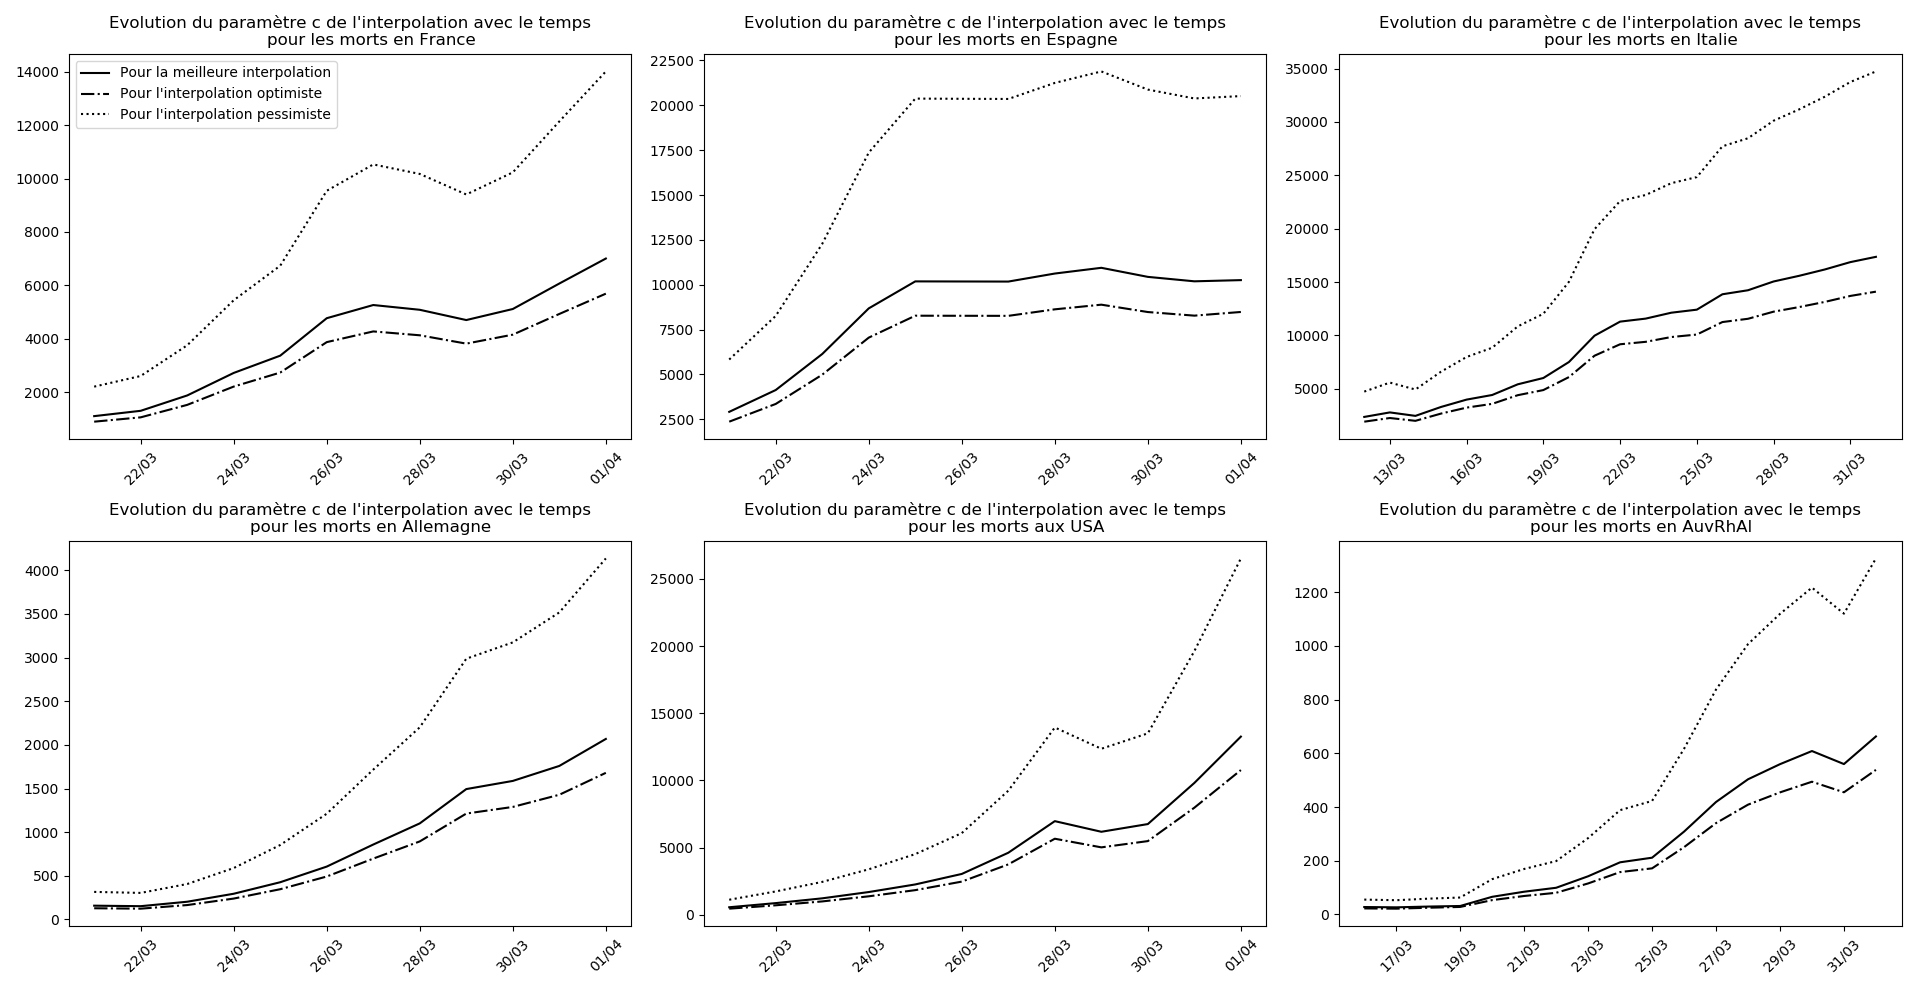
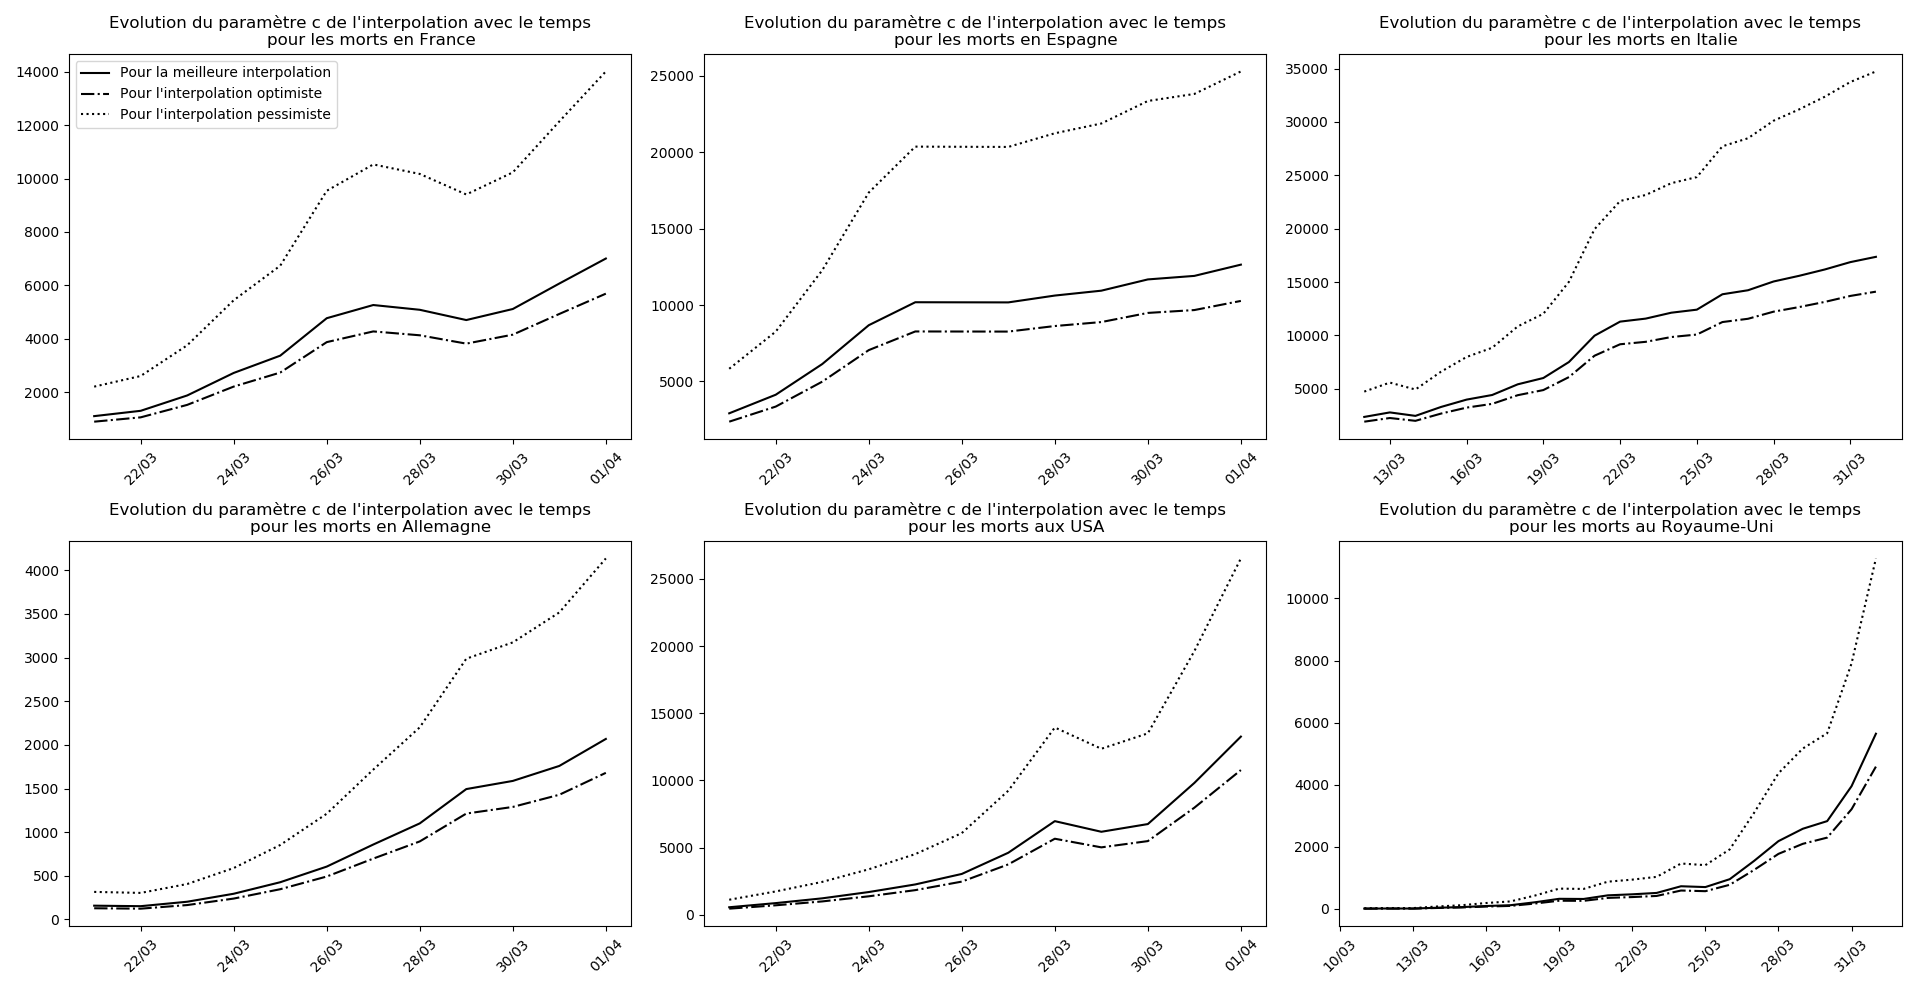
CoViD-19

diff --git a/_posts/2020-03-28-covid19.md b/_posts/2020-03-28-covid19.md
@@ -527,87 +527,11 @@ Le pic pourrait arriver aux environs du 31 mars pour l'Italie et du 5 avril pour
 
 ![CoViD-19 sigmoïdale, évolution du nombre de cas](/img/COVIDEspIta29032020pic.png)
 
-# Situation au 29 mars
-
-Curieusement, ça semble s'améliorer partout aujourd'hui ! Pour l'Espagne et l'Italie, c'est une confirmation, un phénomène qui semble durable. Cela se voit particulièrement bien sur le paramètre $c$ de la simulation, qui dans les premiers temps de l'épidémie est mal mesuré par l'algorithme. Tant que l'inflexion n'est pas passée, il augmente. À partir du moment où l'inflexion est passée, il converge vers sa valeur définitive.
-
-Du coup cela permet d'anticiper le pic épidémique. Pour l'Italie, ça se confirme au 31 mars. Pour l'Espagne, au 3 avril. Et pour la France, ce serait aux alentours du 5 avril.
-
-Tout cela est à prendre avec prudence...
-
-Enfin, nouveauté du jour, en bas à droite des deux graphiques de comparaison : Auvergne-Rhône-Alpes. En pleine phase ascendante. Comme quoi, le mieux d'aujourd'hui pour la France pourrait ne pas être durable...
-
-Source des données : 
-- pour le monde : [https://www.worldometers.info/coronavirus/](https://www.worldometers.info/coronavirus/)
-- pour Auvergne-Rhône-Alpes : [https://www.auvergne-rhone-alpes.ars.sante.fr/liste-communiques-presse](https://www.auvergne-rhone-alpes.ars.sante.fr/liste-communiques-presse)
-
-![CoViD-19 sigmoïdale, évolution du nombre de cas](/img/LimiteMorts30032020.png)
-
-![CoViD-19 sigmoïdale, évolution du nombre de cas](/img/LimiteCoViD30032020.png)
-
-![CoViD-19 sigmoïdale, évolution du nombre de cas](/img/COVIDEspIta30032020pic.png)
-
-# Situation au 30 mars
-
-Les données de l'Allemagne étaient parcellaires et la situation outre-Rhin ne s'améliore pas tant que ça.
-
-L'Espagne au contraire voit sa situation s'améliorer de façon pérenne et peut espérer passer le pic d'épidémie aux alentours du 3 avril.
-
-Pour l'Italie, le plus dur pourrait être derrière : le pic pour demain ? Autant dire qu'on est au pic, la précision de l'algorithme étant très faible en l'occurrence.
-
-Aux USA, un petit mieux peut-être ?
-
-Enfin, pour la France, l'algorithme donne un nombre de morts en fin d'épidémie stable aux alentours de 5000 depuis 5 jours. C'est plus que bon signe ! On reste chez soi, et on se prépare à l'arrivée du pic vers le 5 avril. Même si... la situation en Auvergne-Rhône-Alpes continue à s'emballer et invite à être prudent sur l'évolution de la maladie en France.
-
-Source des données : 
-- pour le monde : [https://www.worldometers.info/coronavirus/](https://www.worldometers.info/coronavirus/)
-- pour Auvergne-Rhône-Alpes : [https://www.auvergne-rhone-alpes.ars.sante.fr/liste-communiques-presse](https://www.auvergne-rhone-alpes.ars.sante.fr/liste-communiques-presse)
-
-![CoViD-19 sigmoïdale, évolution du nombre de cas](/img/CasVsSimulMorts31032020.png)
-
-![CoViD-19 sigmoïdale, évolution du nombre de cas](/img/CasVsSimulCOVID31032020.png)
-
-![CoViD-19 sigmoïdale, évolution du nombre de cas](/img/LimiteMorts31032020.png)
-
-![CoViD-19 sigmoïdale, évolution du nombre de cas](/img/LimiteCoViD31032020.png)
-
-![CoViD-19 sigmoïdale, évolution du nombre de cas](/img/EvolMorts31032020.png)
-
-![CoViD-19 sigmoïdale, évolution du nombre de cas](/img/EvolCOVID31032020.png)
-
-![CoViD-19 sigmoïdale, évolution du nombre de cas](/img/COVIDEspItaFra31032020pic.png)
-
-# Situation au 31 mars
-
-Véritable espoir pour l'Espagne et l'Italie : l'Italie semble passer le pic épidémique et l'Espagne n'est vraiment plus loin, tous les paramètres se stabilisent.
-
-Pour la France, le ciel s'assombrit...
-
-Source des données : 
-- pour le monde : [https://www.worldometers.info/coronavirus/](https://www.worldometers.info/coronavirus/)
-- pour Auvergne-Rhône-Alpes : [https://www.auvergne-rhone-alpes.ars.sante.fr/liste-communiques-presse](https://www.auvergne-rhone-alpes.ars.sante.fr/liste-communiques-presse)
-
-![CoViD-19 sigmoïdale, évolution du nombre de cas](/img/CasVsSimulMorts01042020.png)
-
-![CoViD-19 sigmoïdale, évolution du nombre de cas](/img/CasVsSimulCOVID01042020.png)
-
-![CoViD-19 sigmoïdale, évolution du nombre de cas](/img/LimiteMorts01042020.png)
-
-![CoViD-19 sigmoïdale, évolution du nombre de cas](/img/LimiteCoViD01042020.png)
-
-![CoViD-19 sigmoïdale, évolution du nombre de cas](/img/EvolMorts01042020.png)
-
-![CoViD-19 sigmoïdale, évolution du nombre de cas](/img/EvolCOVID01042020.png)
-
-![CoViD-19 sigmoïdale, évolution du nombre de cas](/img/COVIDEspItaFra01042020pic.png)
-
 # Situation au 1er avril
 
-L'embellie se confirme pour l'Espagne et l'Italie : l'espoir est là.
+Je m'étais déjà aperçu que l'Allemagne publie deux bulletins de situation : un le soir, largement sous-estimé, puis une mise-à-jour dans la nuit... **_Je viens de me rendre compte que l'Espagne fait la même chose !_** Tous les graphiques que j'ai publiés depuis 3 jours étaient faux. J'ai supprimé les mises-à-jour correspondantes et j'ai corrigé les graphiques ci-dessous...
 
-Le nombre de COVID+ en Allemagne semble se stabiliser.
-
-Pour la France, les données du nombre de COVID+ en Auvergne-Rhône-Alpes ne sont plus publiées. Et les données nationales m'apparaissent de plus en plus tragiques, d'autant que le nombre de morts en EHPAD fait l'objet d'un compte à part...
+J'ai remplacé les données pour Auvergne-Rhône-Alpes par celles pour le Royaume-Uni.
 
 Source des données : 
 - pour le monde : [https://www.worldometers.info/coronavirus/](https://www.worldometers.info/coronavirus/)
